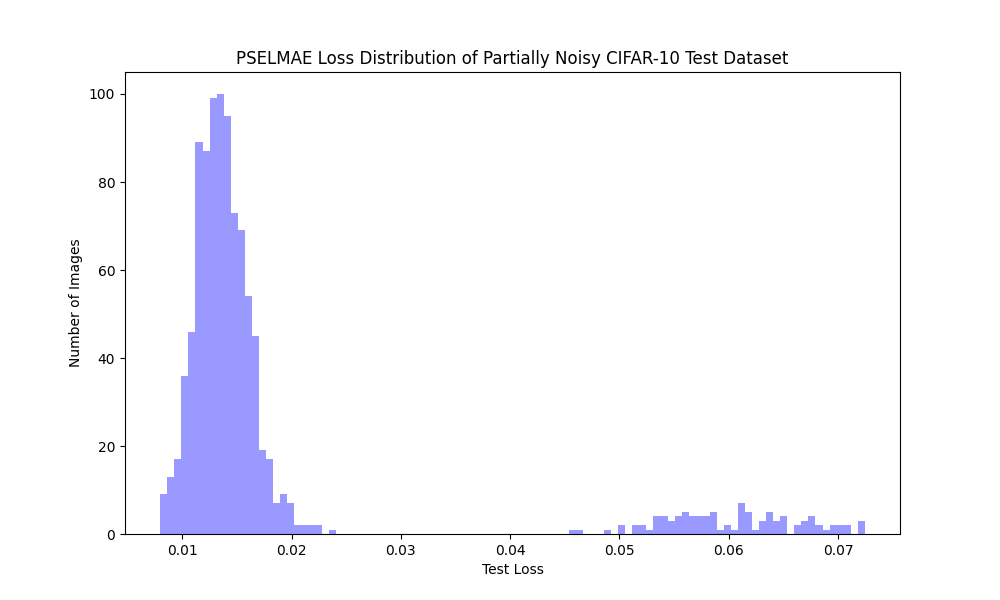
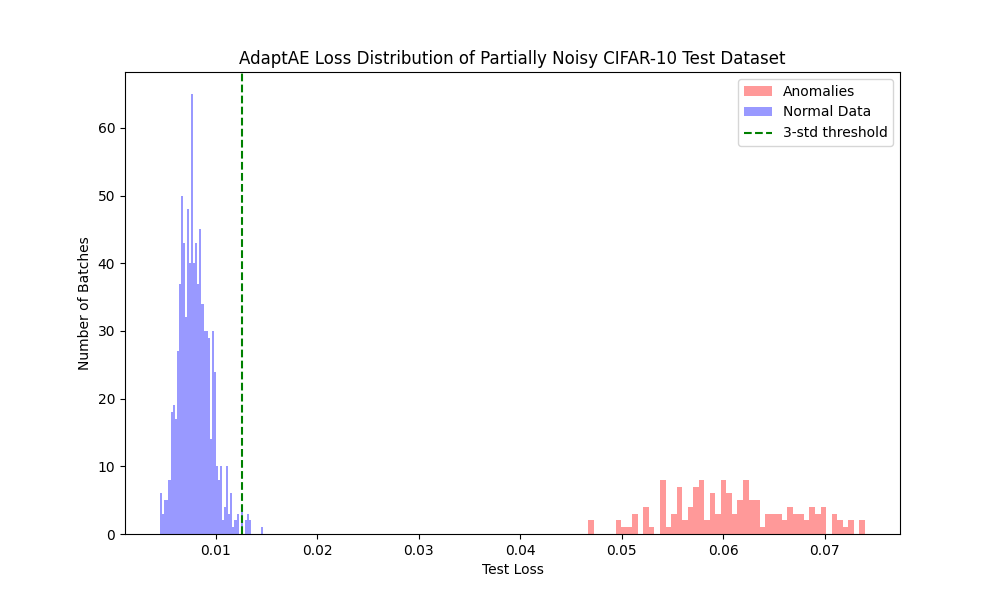
Cnofusion matrix stuff

diff --git a/util/util.py b/util/util.py
@@ -19,6 +19,7 @@ import numpy as np
 import seaborn as sns
 from torch import nn
 from sklearn.manifold import TSNE
+from sklearn.metrics import confusion_matrix
 import csv
 
 """
@@ -148,7 +149,7 @@ Plot the loss distribution of the model
 :param results_file: The file to save the results to
 :type results_file: str
 """
-def plot_loss_distribution(model_name, losses, dataset, results_file):
+def plot_loss_distribution(model_name, losses, dataset, batch_size, loss_file, confusion_file):
     dataset_names = {
         "mnist": "MNIST",
         "fashion-mnist": "Fashion-MNIST",
@@ -158,12 +159,77 @@ def plot_loss_distribution(model_name, losses, dataset, results_file):
         "tiny-imagenet": "Tiny ImageNet"
     }
 
-    plt.figure(figsize=(10, 6))
+    split_point = 1472 // batch_size
+
+    # Splitting the losses into anomalies and normal
+    anomaly_losses = np.array(losses[:split_point])
+    normal_losses = np.array(losses[split_point:])
+
+    mean_normal_losses = np.mean(normal_losses)
+    std_normal_losses = np.std(normal_losses)
+    std_dev_threshold = mean_normal_losses + (3 * std_normal_losses)
+
+    fig, _ = plt.subplots(figsize=(10, 6))
     plt.title(f"{model_name} Loss Distribution of Partially Noisy {dataset_names[dataset]} Test Dataset")
-    sns.distplot(losses, bins=100, kde=False, color="blue")
+
+    # Plotting both distributions
+    sns.distplot(anomaly_losses, bins=50, kde=False, color="red", label="Anomalies")
+    sns.distplot(normal_losses, bins=50, kde=False, color="blue", label="Normal Data")
+
+    plt.axvline(x=std_dev_threshold, color='green', linestyle='--', label=f'3-std threshold')
+
     plt.xlabel("Test Loss")
-    plt.ylabel("Number of Images")
-    plt.savefig(results_file)
+    plt.ylabel("Number of Batches")
+    plt.legend()
+    plt.savefig(loss_file)
+
+    plt.close(fig)
+    plot_confusion_matrix(
+        model_name,
+        losses,
+        std_dev_threshold,
+        dataset_names,
+        dataset,
+        split_point,
+        confusion_file
+    )
+
+"""
+Plot the confusion matrix of the model
+:param model_name: The name of the model
+:type model_name: str
+:param losses: The losses to plot
+:type losses: list
+:param threshold: The threshold to use
+:type threshold: float
+:param dataset_names: The names of the datasets
+:type dataset_names: dict
+:param dataset: The dataset used
+:type dataset: str
+:param split_point: The point at which the anomalies start
+:type split_point: int
+:param confusion_file: The file to save the results to
+:type confusion_file: str
+"""
+def plot_confusion_matrix(model_name, losses, threshold, dataset_names, dataset, split_point, confusion_file):
+    # Assuming the first 1500 are anomalies and the rest are normal
+    true_labels = np.array([1] * split_point + [0] * (len(losses) - split_point))
+    
+    # Predictions based on the threshold
+    predictions = (np.array(losses) > threshold).astype(int)
+
+    # Calculate confusion matrix
+    conf_matrix = confusion_matrix(true_labels, predictions)
+
+    fig, ax = plt.subplots(figsize=(8, 6))
+    sns.heatmap(conf_matrix, annot=True, fmt='d', cmap='Blues',
+                xticklabels=['Normal', 'Anomaly'],
+                yticklabels=['Normal', 'Anomaly'])
+
+    plt.ylabel('Actual')
+    plt.xlabel('Predicted')
+    plt.title(f"Confusion Matrix for {model_name} on {dataset_names[dataset]}")
+    plt.savefig(confusion_file)
 
 """
 Save the results to a CSV file

diff --git a/adaptae/plots/hyperparameters/plot.py b/adaptae/plots/hyperparameters/plot.py
@@ -202,14 +202,14 @@ def main():
     datasets = [mnist_data, fashion_mnist_data, cifar10_data, cifar100_data, super_tiny_imagenet_data, tiny_imagenet_data] 
     dataset_names = ['MNIST', 'Fashion MNIST', 'CIFAR-10', 'CIFAR-100', 'Super Tiny ImageNet', 'Tiny ImageNet']
 
-    plot_total_seq_prop_vs_memory_batch(datasets, dataset_names)
-    plot_total_seq_prop_vs_memory_sample(datasets, dataset_names)
-    plot_total_batch_vs_memory_batch(mnist_data)
-    plot_total_batch_vs_memory_sample(super_tiny_imagenet_data)
-    plot_total_batch_vs_time(datasets, dataset_names)
-    plot_total_seq_prop_vs_time(datasets, dataset_names)
+    # plot_total_seq_prop_vs_memory_batch(datasets, dataset_names)
+    # plot_total_seq_prop_vs_memory_sample(datasets, dataset_names)
+    # plot_total_batch_vs_memory_batch(mnist_data)
+    # plot_total_batch_vs_memory_sample(super_tiny_imagenet_data)
+    # plot_total_batch_vs_time(datasets, dataset_names)
+    # plot_total_seq_prop_vs_time(datasets, dataset_names)
     plot_total_batch_vs_loss(datasets, dataset_names)
-    plot_total_seq_prop_vs_loss(datasets, dataset_names)
+    # plot_total_seq_prop_vs_loss(datasets, dataset_names)
 
 if __name__ == '__main__':
     main()

diff --git a/autoencoder/train-autoencoder.py b/autoencoder/train-autoencoder.py
@@ -235,7 +235,7 @@ Test the autoencoder model
 :param task: The task to perform
 :type task: str
 """
-def test_model(model, data_loader, dataset, gen_imgs, num_imgs, task):
+def test_model(model, data_loader, dataset, gen_imgs, num_imgs, task, batch_size):
     logging.info(f"Testing the autoencoder model...")
 
     # Set the model to evaluation mode
@@ -276,7 +276,8 @@ def test_model(model, data_loader, dataset, gen_imgs, num_imgs, task):
 
     if task == "anomaly-detection":
         loss_file = f"autoencoder/plots/losses/{dataset}-anomaly-losses.png"
-        plot_loss_distribution(model.name, losses, dataset, loss_file)
+        confusion_file = f"autoencoder/plots/confusion/{dataset}-confusion-matrix.png"
+        plot_loss_distribution(model.name, losses, dataset, batch_size, loss_file, confusion_file)
 
     logging.info(f"Testing complete.")
 
@@ -474,7 +475,8 @@ def main():
         config["dataset"], 
         config["generate_imgs"], 
         config["num_images"], 
-        config["task"]
+        config["task"],
+        config["batch_size"]
     )
 
     if config["save_results"]:

diff --git a/adaptae/train-adapt-ae.py b/adaptae/train-adapt-ae.py
@@ -430,7 +430,12 @@ def test_model(model, test_loader, dataset, gen_imgs, num_imgs, seq_prop, task):
             if batch_size == 1
             else f"adaptae/plots/losses/{dataset}-anomaly-losses-batch-{batch_size}.png"
         )
-        plot_loss_distribution(model.name, losses, dataset, loss_file)
+        confusion_file = (
+            f"adaptae/plots/confusion/{dataset}-anomaly-confusion-sample-{seq_prop}.png"
+            if batch_size == 1
+            else f"adaptae/plots/confusion/{dataset}-anomaly-confusion-batch-{batch_size}.png"
+        )
+        plot_loss_distribution(model.name, losses, dataset, batch_size, loss_file, confusion_file)
 
     logging.info(f"Testing complete.")
 

diff --git a/util/data.py b/util/data.py
@@ -177,7 +177,7 @@ class NoisyLoader(torch.utils.data.Dataset):
     def __init__(self, dataset):
         super(NoisyLoader, self).__init__()
         self.dataset = dataset
-        self.num_noisy_imgs = 1000
+        self.num_noisy_imgs = 1472
 
     def __len__(self):
         return len(self.dataset)
